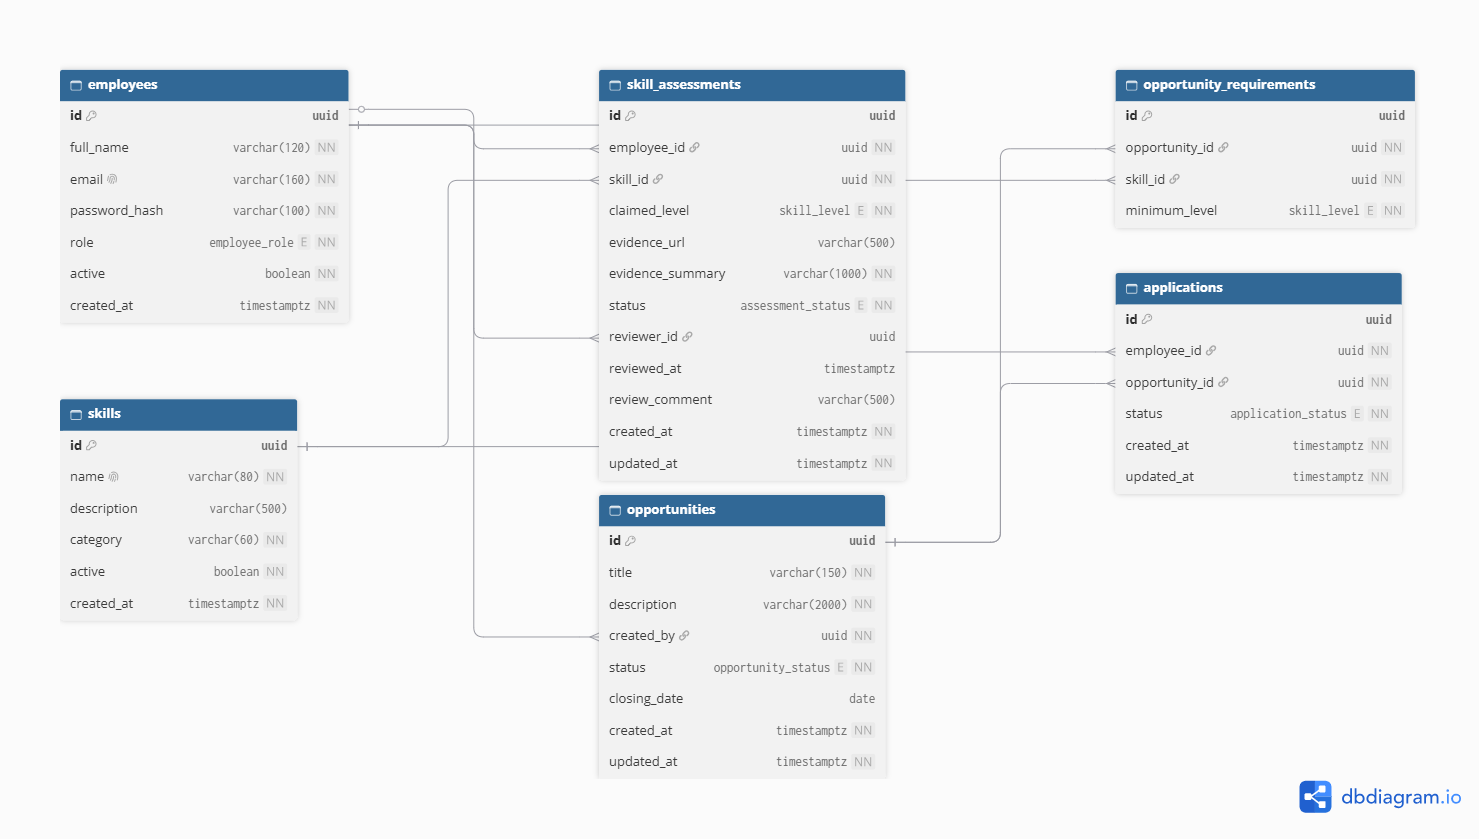
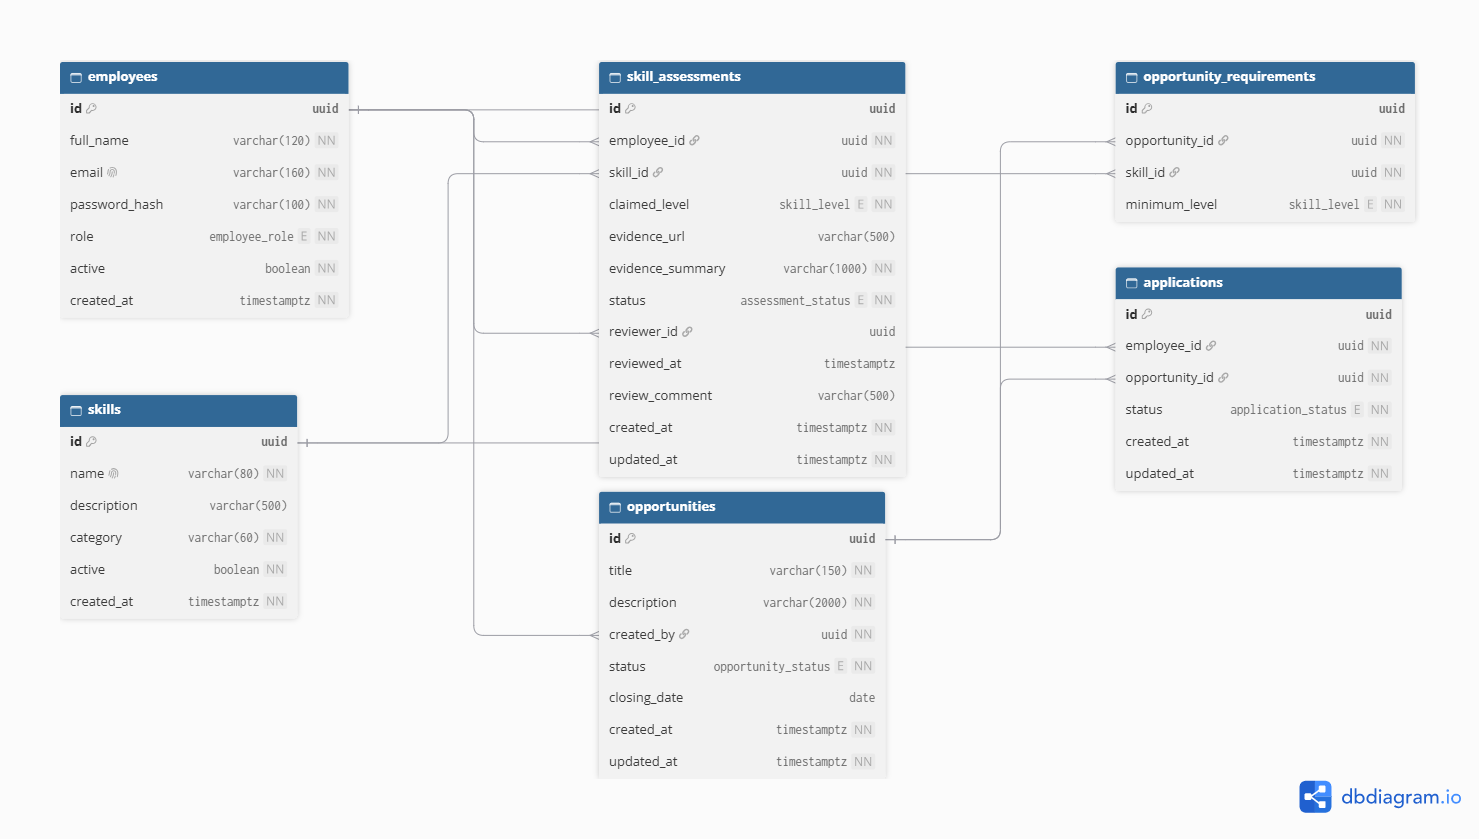
docs: switch to assessment history with one pending claim per skill

diff --git a/docs/design-decisions.md b/docs/design-decisions.md
@@ -4,7 +4,7 @@
 |---|---|---|---|
 | 1 | PostgreSQL (relational) | The data is strongly relational and the rules (uniqueness, state) need constraints | MongoDB: no foreign keys or unique-pair guarantees without extra code |
 | 2 | UUID primary keys | Ids cannot be enumerated; safe to expose | Sequential ids: simpler, but guessable |
-| 3 | One assessment per (employee, skill), enforced by a unique constraint | Duplicate claims are impossible even under concurrent requests | Many claims per pair with history: richer, but more rules than three weeks allow |
+| 3 | Many assessments per (employee, skill) over time; at most one PENDING, enforced by a partial unique index | Rejected claims can be resubmitted and a verified level can be upgraded, with no self-promotion: the old VERIFIED row keeps counting until the new one is reviewed | One row per pair: simpler, but dead-ends rejected employees and forces edits to verified rows |
 | 4 | Review fields live on skill_assessments | One reviewer per claim in v1 | Separate reviews table: needed only for multi-reviewer or audit history |
 | 5 | review_comment column added | A rejection without a reason is not actionable for the employee | Omit it: one column fewer, but a worse workflow |
 | 6 | Join entities with their own columns (minimum_level, status) | Both many-to-many links carry data | Plain link tables cannot hold levels or application state |

diff --git a/docs/erd.md b/docs/erd.md
@@ -13,7 +13,8 @@ Diagram: docs/erd.png (exported from dbdiagram.io). Source of the diagram is the
 | Employee applies to Opportunity | **many-to-many** | applications (carries status) |
 
 ## Constraints the database enforces
-- skill_assessments: one row per (employee, skill); reviewer_id must differ from employee_id;
+- skill_assessments: many rows per (employee, skill) over time, but at most one PENDING
+  per pair (partial unique index); reviewer_id must differ from employee_id;
   PENDING means no reviewer, VERIFIED or REJECTED means reviewer and reviewed_at are set.
 - opportunity_requirements: one row per (opportunity, skill).
 - applications: one row per (employee, opportunity).
@@ -97,12 +98,12 @@ Table skill_assessments [headercolor: #D9822B] {
   updated_at       timestamptz       [not null]
 
   indexes {
-    (employee_id, skill_id) [unique, name: 'uq_assessment_employee_skill']
+    (employee_id, skill_id) [name: 'ix_assessment_employee_skill']
     status
     skill_id
   }
 
-  Note: 'MAIN ENTITY (Week 1 CRUD). One claim per employee and skill.'
+  Note: 'MAIN ENTITY (Week 1 CRUD). History per employee and skill. A partial unique index (employee_id, skill_id) WHERE status = PENDING allows one open claim at a time. dbdiagram cannot draw partial indexes, so this is documented here and in the migration.'
 }
 
 Table opportunities [headercolor: #7A4FB5] {
